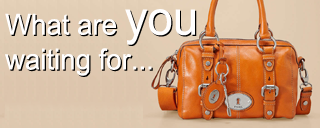
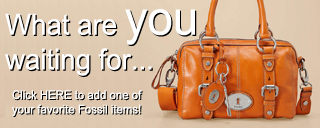
Changed a few CSS styles and removed the add item link.

Changed region(s): [[0.0312, 0.8125, 0.4688, 0.9062], [0.0312, 0.6875, 0.4688, 0.7812]]

diff --git a/Week 1/css/styles.css b/Week 1/css/styles.css
@@ -4,8 +4,7 @@ Name: William Saults
 Term: 0512
 */
 
-body
-{
+body {
 	background-image:url('../images/wood_pattern.png');
 	background-repeat:repeat-x repeat-y;
 	font-family: Arial, Helvetica, san-serif;
@@ -14,8 +13,7 @@ body
 	color: #C57F45;
 }
 
-#navigationBar
-{	
+#navigationBar {	
 	outline: solid 1px #694425;
 	background-color: #5B2C06;
 	font-size: 8pt;
@@ -27,117 +25,101 @@ body
 	text-align: center;
 }
 
-#site-wrapper
-{
+#site-wrapper {
 
 }
 
-h1
-{
+h1 {
 	float: left;
 	margin: 10px 20px 10px 60px;
 }
 
-h2
-{
+h2 {
 	font-size: 16pt;
 	text-align: center;
 }
 
-p
-{
+p {
 	text-align: center;
 }
 
-a
-{
+a {
 	color: #8C4A13;
 }
 
-fieldset
-{
+fieldset {
 	border: none;
 }
 
-legend
-{
+legend {
 	margin: 10px 0;
 	font-size: 16pt;
 }
 
-ul
-{
+ul {
 	margin: 2px 0;
 	width: auto;
 	padding: 0 0 0 5px;
 }
 
-li
-{
+li {
 	list-style-type: none;
 	margin: 5px 0 0 0;
 }
 
-input
-{
+input {
 	width: 95%;
 	height: 25px;
 	margin: 5px 0 0 -5px;
 	font-size: 16pt;
 }
 
-#quantityLabel
-{
+#quantityLabel {
 	width: 25%;
 }
 
-.inputBox
-{
+.inputBox {
 	vertical-align: text-top;
 	display: inline-block;
 }
 
-.radio
-{	
+.radio {	
 
 }
 
-textarea, select, selectItem
-{
+textarea, select, selectItem {
 	vertical-align: text-top;
 	width: 100%;
 	margin: 5px 0 0 0;
 }
 
-textarea
-{
+textarea {
 	font-size: 16pt;
 }
 
-#response
-{
+#response {
 	padding: 15px 0;
 }
 
-#submit, #addNew, #addItem
-{
+#submit, #addNew { 
 	margin: 0 0 0 8px;
 	height: 30px;
 }
 
-#clearAll, #displayData
-{	
+#clearAll, #displayData {	
 	margin: 0 0 10px 8px;
 	width: 45%;
 	height: 30px;
 }
 
-#addNew
-{
+#addNew {
 	display: none;
 }
 
-span, #errors
-{
+span, #errors {
 	color: red;
+}
+
+#callToActionDesc {
+	font-size: 10px;
 }

diff --git a/Week 1/index.html b/Week 1/index.html
@@ -27,23 +27,15 @@ Term: 0512
 				<img id="logo" src="images/logo.png" alt="Fossil" height="43" width="75" />
 			</header>
 					
-			<!-- Description -->
-			<div>
-				<p>This app assists you in purchasing your favorite Fossil brand items.</p>
-			</div>
-					
 			<!-- Add Fossil Item -->
 			<header>
 				<a href="additem.html"><img src="images/calltoaction.png" alt="What are you waiting for" width="320" height="128" /></a>
 			</header>
-			
-			
-			<!-- Link to additem.html -->
+			<!-- Description -->
 			<div>
-				<form>
-					<input id="addItem" type="button" value="Add a Fossil item" onclick="window.location.href='additem.html'" />
-				</form>
+				<p id="callToActionDesc">This app assists you in purchasing your favorite Fossil brand items.</p>
 			</div>
+
 		</div>
 	</body>
 </html>  
